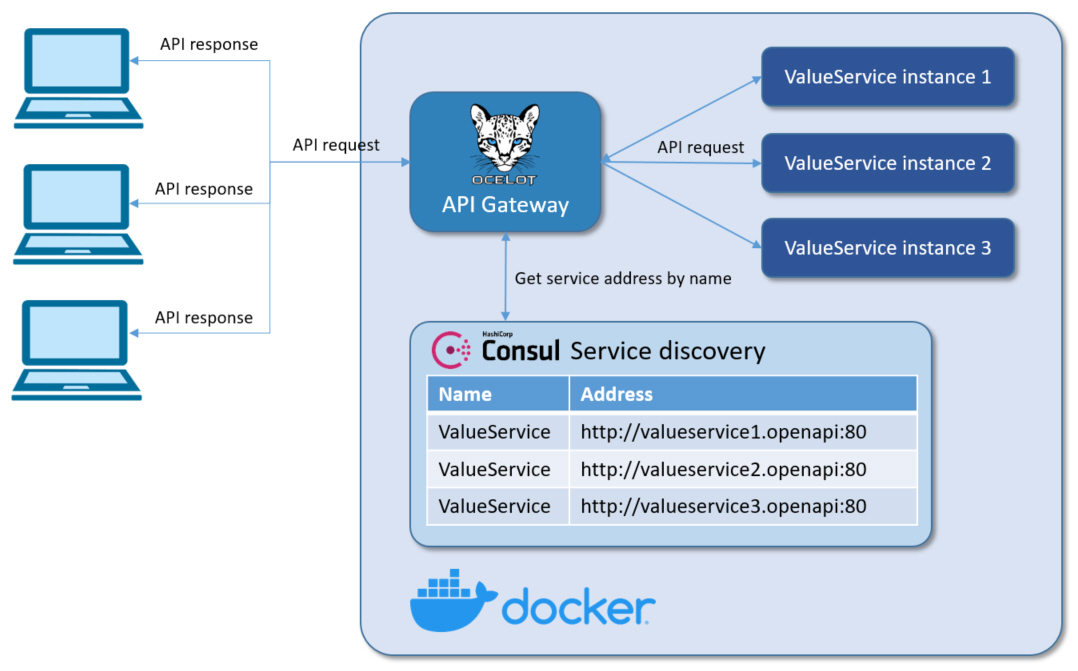
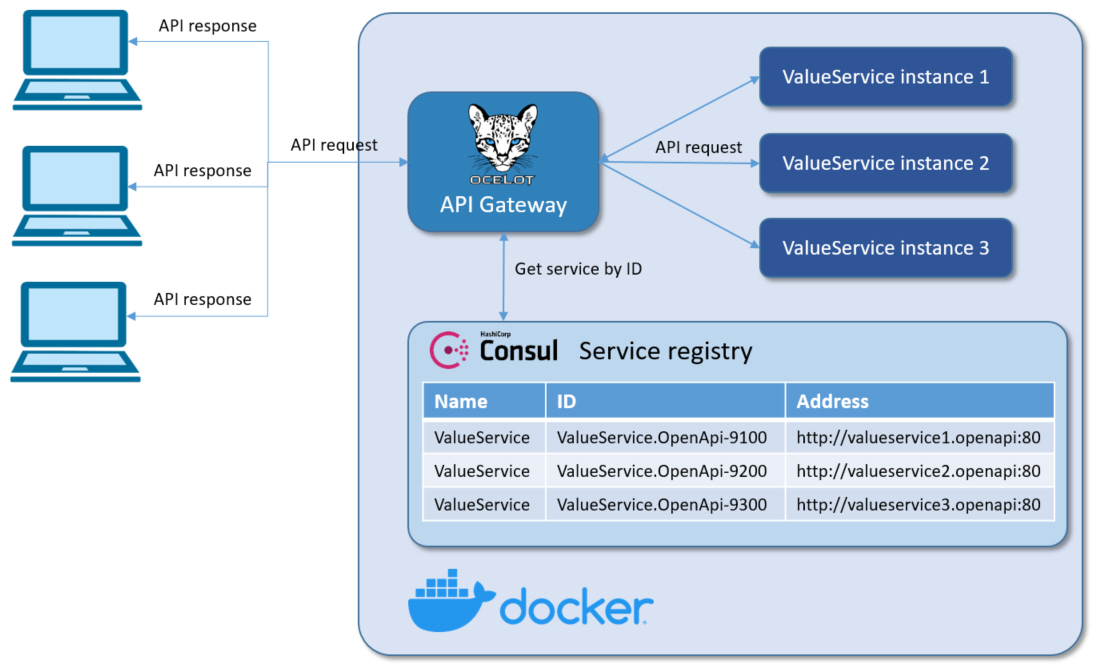
Updated README.md

Changed region(s): [[0.0, 0.0, 1.0, 1.0], [0.6122, 0.2994, 0.6429, 0.3293]]

diff --git a/README.md b/README.md
@@ -26,6 +26,8 @@ Before getting into implementation details how to implement self-registration to
 
 In a first step a service instance registers itself to the service discovery service by providing its name and address. After this gateway is able to get address of this service by querying the Consul service discovery by its name.
 
+The **key thing to note** is that the service instances are registered with a **unique service ID** in order to disambiguate between instances of **ValueService** which are running on the same **Consul** service. **It is required that all services have a unique ID per node**, so if names might conflict (which is our case) then unique IDs must be provided.
+
 ![](res/ServiceRegistration.jpg)
 
 ## Architecture
